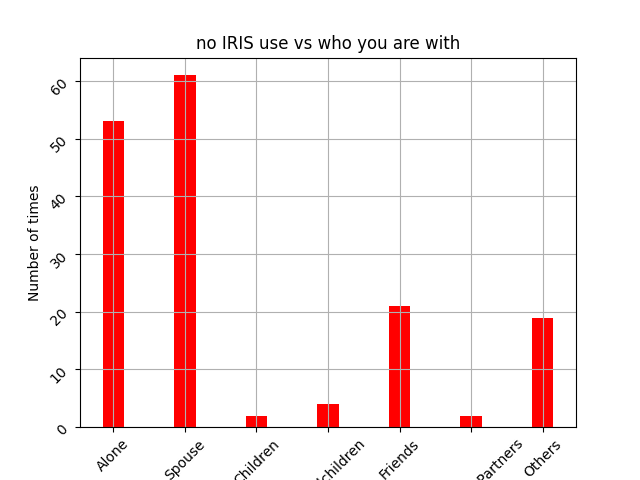
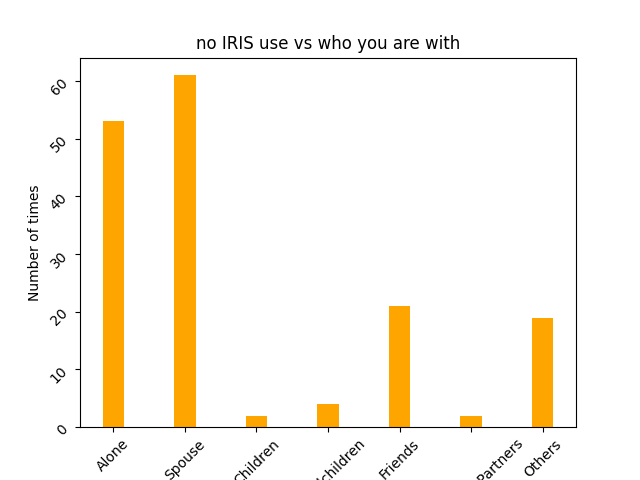
pseudo_final graphs

diff --git a/main.py b/main.py
@@ -73,8 +73,8 @@ def load_and_write_data(read_filepath, write_filepath):
                     in_y_values.append(dataframe['IKIGAI level to not use IRIS'][row])
 
         fig, ax = plt.subplots()
-        ax.scatter(ap_x_values, ap_y_values)
-        ax.scatter(in_x_values, in_y_values)
+        ax.scatter(ap_x_values, ap_y_values, alpha=0.5)
+        ax.scatter(in_x_values, in_y_values, alpha=0.5)
         plt.grid()
         plt.gcf().autofmt_xdate()
         ax.xaxis.set_major_formatter(dates.DateFormatter('%H:%M'))
@@ -94,7 +94,7 @@ def load_and_write_data(read_filepath, write_filepath):
                 x_time_labels.append(datetime.combine(datetime.today(), dataframe['StartDate'][row].time()))
 
         fig, ax = plt.subplots()
-        ax.scatter(x_time_labels, y_activity_labels)
+        ax.scatter(x_time_labels, y_activity_labels, alpha=0.5)
         plt.tick_params(rotation=45)
         plt.gcf().autofmt_xdate()
         ax.xaxis.set_major_formatter(dates.DateFormatter('%H:%M'))
@@ -114,7 +114,7 @@ def load_and_write_data(read_filepath, write_filepath):
                         y_activity_labels.append(activity)
                         x_corresponding_ikigai_level.append(dataframe['IKIGAI level to use IRIS'][row])
 
-        plt.scatter(x_corresponding_ikigai_level, y_activity_labels)
+        plt.scatter(x_corresponding_ikigai_level, y_activity_labels, alpha=0.5)
         plt.xlabel('How much current activity affects IKIGAI %')
         plt.grid()
         plt.savefig('IRIS_activity_vs_ikigai_level.png')
@@ -174,17 +174,18 @@ def load_and_write_data(read_filepath, write_filepath):
                     if key in Q7list:
                         no_person_freq_dict[key] = no_person_freq_dict[key]+1
 
-        plt.bar(yes_person_freq_dict.keys(), yes_person_freq_dict.values(), color='green', width=0.3)
+
+
+        plt.bar(yes_person_freq_dict.keys(), yes_person_freq_dict.values(), color='blue', width=0.3)
         plt.title('IRIS use count vs who you are with')
-        plt.grid()
         plt.tick_params(rotation=45)
         plt.ylabel('Number of times')
+        plt.savefig('Iris use yes and no graph.png')
         plt.savefig('Persons and IRIS_use.png')
         plt.show()
 
-        plt.bar(no_person_freq_dict.keys(), no_person_freq_dict.values(), color='red', width=0.3)
+        plt.bar(no_person_freq_dict.keys(), no_person_freq_dict.values(), color='orange', width=0.3)
         plt.title('no IRIS use vs who you are with')
-        plt.grid()
         plt.tick_params(rotation=45)
         plt.ylabel('Number of times')
         plt.savefig('Persons and NO IRIS_use.png')
@@ -224,13 +225,14 @@ def load_and_write_data(read_filepath, write_filepath):
             for activity in IRIS_activity_to_person_dict.keys():
                 text = IRIS_activity_to_person_dict[activity][person_to_index_dict[person]]
                 if text != 0:
-                    plt.plot(person, activity,  'go', label='marker only')
+                    plt.scatter(person, activity, s=int(text)*100, c = 40, marker='o', alpha=0.5)
                     plt.annotate(text, (person, activity))
 
         plt.grid()
         plt.title('who are you with vs desired IRIS activity')
         plt.savefig('who are you with vs IRIS activity.png')
         plt.show()
+
 
     things_To_or_Not(df)
     graded_IKIGAI_activities(df)
@@ -244,9 +246,7 @@ def load_and_write_data(read_filepath, write_filepath):
     who_are_you_with_vs_IRIS_usecounts_plots(df)
     IRIS_activity_vs_who_are_you_with(df)
 
-
     df.to_excel(write_filepath)
-
 
 analytics_read_file = "C:\\Users\gosho\OneDrive\Desktop\R-HouseFiles\Expert+Panel-+Life+with+IRIS_July+17,+2023_09.50\Expert Panel- Life with IRIS_July 17, 2023_09.50.xlsx"
 analytics_write_file = "C:\\Users\gosho\OneDrive\Desktop\R-HouseFiles\Expert+Panel-+Life+with+IRIS_July+17,+2023_09.50\Expert Panel- Life with IRIS_July 17-processed.xlsx"
